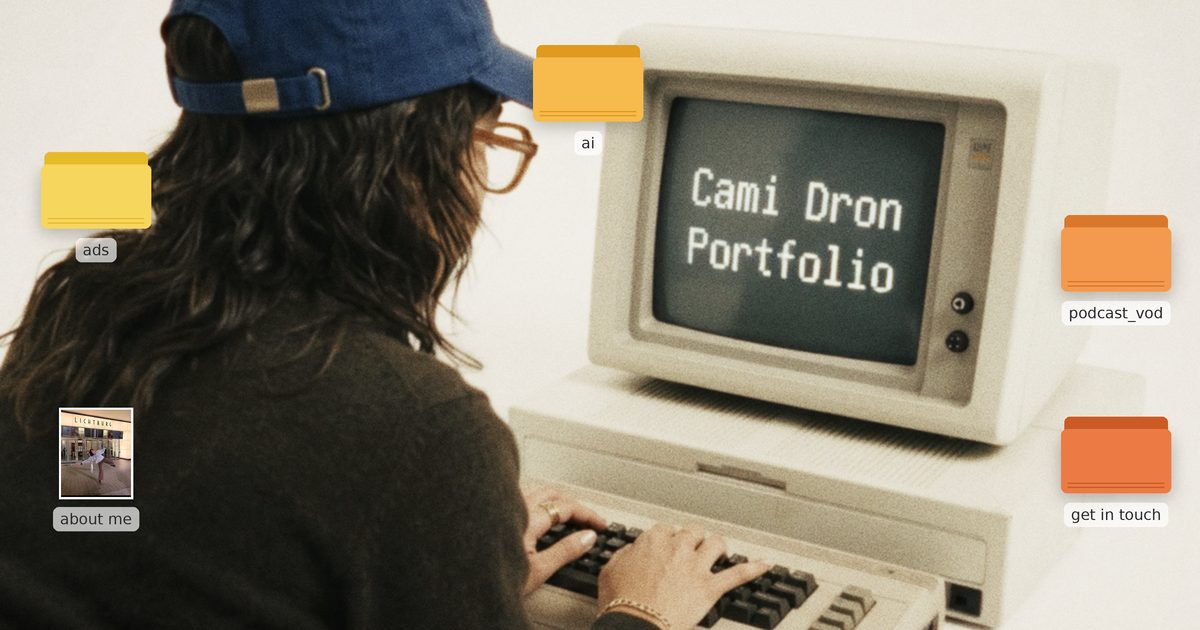
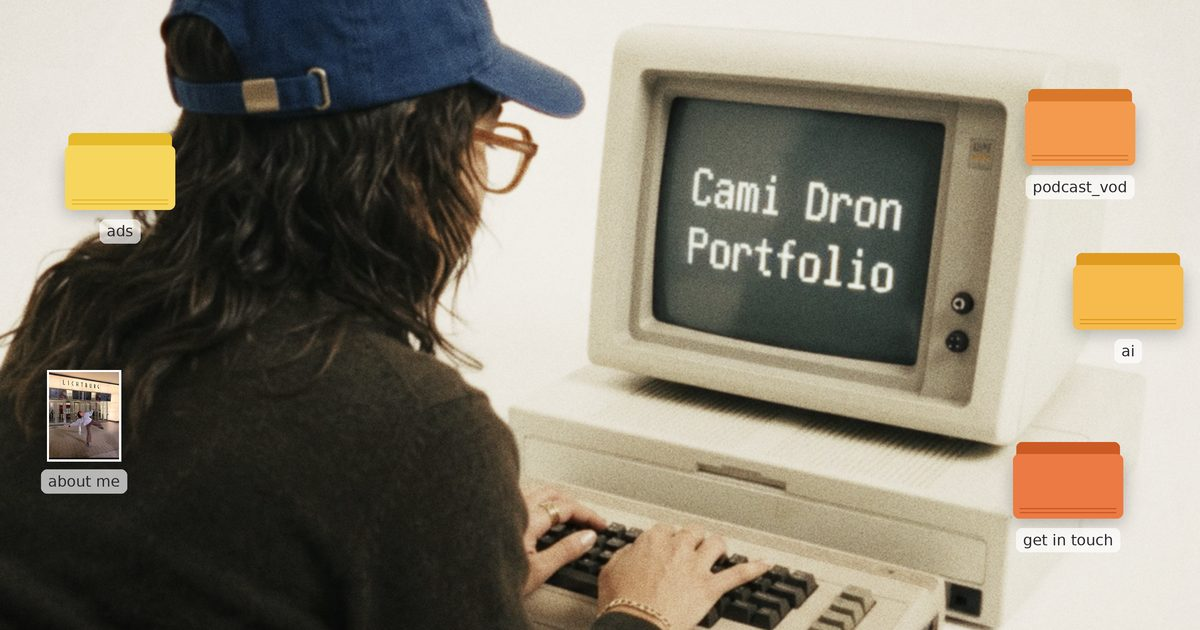
Add files via upload

diff --git a/index.html b/index.html
@@ -64,12 +64,12 @@ nav.top a{font-family:var(--pixel);font-size:12.5px;text-decoration:none;padding
 nav.top a:hover{background:rgb(0 0 0 / .06)}
 
 /* íconos */
-.item{position:absolute;left:var(--x);top:var(--y);transform:translate(-50%,-50%);display:grid;justify-items:center;gap:8px;width:clamp(90px,9.8vw,128px);text-align:center;z-index:5;animation:drop .6s cubic-bezier(.2,.9,.3,1.15) both;animation-delay:calc(var(--n)*90ms + 200ms)}
+.item{position:absolute;left:var(--x);top:var(--y);transform:translate(-50%,-50%);display:grid;justify-items:center;gap:8px;width:calc(clamp(90px,9.8vw,128px) * var(--sc,1));text-align:center;z-index:5;animation:drop .6s cubic-bezier(.2,.9,.3,1.15) both;animation-delay:calc(var(--n)*90ms + 200ms)}
 @keyframes drop{from{opacity:0;translate:0 14px}}
 .item .art{display:grid;place-items:center;width:100%;aspect-ratio:1.25;border-radius:14px;transition:background .15s}
 .item svg.folder{width:88%;height:auto;filter:drop-shadow(0 6px 10px rgb(0 0 0 / .10));transition:transform .2s}
 .item:hover svg.folder{transform:translateY(-3px)}
-.item .lab{font-size:12.5px;font-weight:500;line-height:1.3;padding:2px 7px;border-radius:5px;background:var(--glass);backdrop-filter:blur(8px);-webkit-backdrop-filter:blur(8px);white-space:nowrap}
+.item .lab{font-size:calc(12.5px * var(--lsc,1));font-weight:500;line-height:1.3;padding:2px 7px;border-radius:5px;background:var(--glass);backdrop-filter:blur(8px);-webkit-backdrop-filter:blur(8px);white-space:nowrap}
 .item[aria-expanded="true"] .art,.item:focus-visible .art{background:rgb(255 255 255 / .45);box-shadow:inset 0 0 0 1px rgb(255 255 255 / .6)}
 .item[aria-expanded="true"] .lab{background:var(--sel);color:#fff}
 .item:focus-visible{outline:none}
@@ -216,7 +216,7 @@ const CONFIG = {
 };
 
 const CATEGORIES = [
-  { key:"branded", hash:"ads", alias:"brandeD", label:"ads", color:"yellow", x:8, y:30, vertical:false, videos:[
+  { key:"branded", hash:"ads", alias:"brandeD", label:"ads", color:"yellow", x:10, y:27, mOrder:0, vertical:false, videos:[
     {url:"https://vimeo.com/1231777787"},
     {url:"https://vimeo.com/1231777762"},
     {url:"https://vimeo.com/1231777763"},
@@ -229,13 +229,13 @@ const CATEGORIES = [
     {url:"https://vimeo.com/1231783185/70117b7f70"},
     {url:"https://vimeo.com/1231777788"}
   ]},
-  { key:"ai", hash:"ai", label:"ai", color:"amber", x:49, y:13, vertical:true, videos:[
+  { key:"ai", hash:"ai", label:"ai", color:"amber", x:94, y:47, mOrder:2, vertical:true, videos:[
     {url:"https://vimeo.com/1231775949"},
     {url:"https://vimeo.com/1231775947"},
     {url:"https://vimeo.com/1231775948"},
     {url:"https://vimeo.com/1231775945"}
   ]},
-  { key:"podcast", hash:"podcast_vod", label:"podcast_vod", color:"orange", x:93, y:40, vertical:true, videos:[
+  { key:"podcast", hash:"podcast_vod", label:"podcast_vod", color:"orange", x:90, y:22, mOrder:1, vertical:true, videos:[
     {url:"https://vimeo.com/1231780935"},
     {url:"https://vimeo.com/1232056558"},
     {url:"https://vimeo.com/1232056801"},
@@ -256,8 +256,8 @@ const CATEGORIES = [
[1 lines of base64/hex data omitted]
 /* íconos extra del escritorio */
 const EXTRAS = [
-  { key:"contact", hash:"contacto", label:"get in touch", color:"tang", x:93, y:72 },
-  { key:"about", hash:"about", label:"about me", png:true, x:8, y:72 }
+  { key:"contact", hash:"contacto", label:"get in touch", color:"tang", x:89, y:74, mOrder:4 },
+  { key:"about", hash:"about", label:"about me", png:true, x:7, y:66, mOrder:3 }
 ];
 /* ================================================================= */
 
@@ -305,6 +305,8 @@ ALL.forEach((it,n) => {
   const b = document.createElement("button");
   b.className = "item"; b.type = "button"; b.setAttribute("aria-expanded","false");
   b.style.setProperty("--x", it.x+"%"); b.style.setProperty("--y", it.y+"%"); b.style.setProperty("--n", n);
+  if(it.scale){ b.style.setProperty("--sc", it.scale); b.style.setProperty("--lsc", 1 + (it.scale-1)/2); b.classList.add("featured"); }
+  b.style.order = it.mOrder ?? n;
   const art = it.png
     ? `<span class="png photo"><img src="${ABOUT_PHOTO}" alt="Foto de Cami" width="320" height="400" decoding="async"></span>`
     : `<svg class="folder" viewBox="0 0 150 110" style="--c:var(--${it.color});--dk:var(--${it.color}-dk)"><use href="#folder"/></svg>`;
